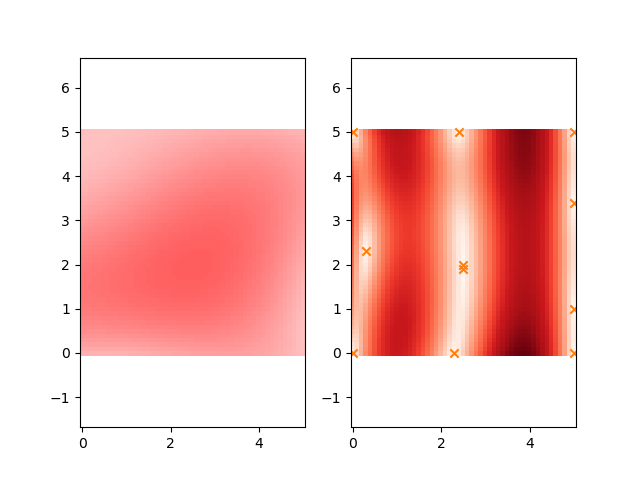
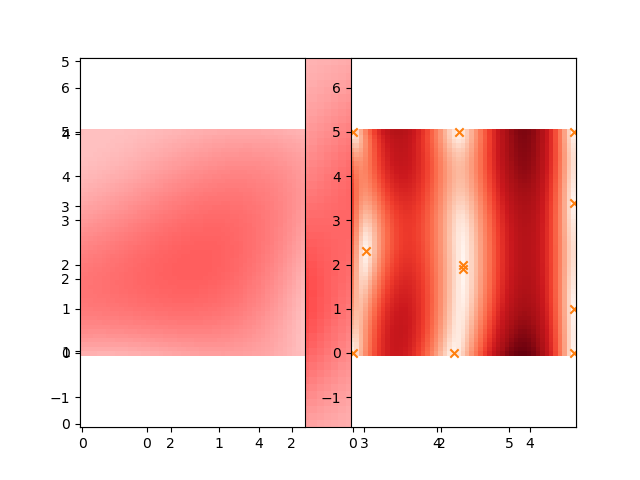
before further modifying hyper params in run_rits.py

diff --git a/run_rits.py b/run_rits.py
@@ -24,28 +24,28 @@ def get_params(rpkl=None, wpkl=None):
         param_sets['param_name'] = ["lattice constance"]
         param_sets['string'] = ['LATCON']
         param_sets['lims_mean'] = [[2.86, 2.87]]
-        param_sets['lims_scale'] = [[0.0, 0.00001]]
-        param_sets['lims_xlim'] = [[25., 50.]]
+        param_sets['lims_scale'] = [[0.0, 0.00005]]
+        param_sets['lims_xlim'] = [[25., 45.]]
         param_sets['param_name'].append("crsytallite size")
         param_sets['string'].append("CRSIZE")
-        param_sets['lims_mean'].append([1.0, 1.3])
-        param_sets['lims_scale'].append([0.3, 1.0])
-        param_sets['lims_xlim'].append([30., 40.])
+        param_sets['lims_mean'].append([0.186038, 1.31959])
+        param_sets['lims_scale'].append([0.0, 0.01])
+        param_sets['lims_xlim'].append([30., 50.])
         param_sets['param_name'].append("microstrain in Jorgensen func")
         param_sets['string'].append("MICRST")
-        param_sets['lims_mean'].append([1.3, 1.5])
-        param_sets['lims_scale'].append([0.1, 1.0])
-        param_sets['lims_xlim'].append([40., 50.])
+        param_sets['lims_mean'].append([1.0, 15.7124])
+        param_sets['lims_scale'].append([0.1, 2.0])
+        param_sets['lims_xlim'].append([30., 50.])
         param_sets['param_name'].append("March-Dollase Coefficient")
         param_sets['string'].append("MDCOEF")
-        param_sets['lims_mean'].append([2.3, 2.7])
+        param_sets['lims_mean'].append([1.33567, 2.53587])
         param_sets['lims_scale'].append([0.01, 1.0])
-        param_sets['lims_xlim'].append([15., 40.])
+        param_sets['lims_xlim'].append([30., 50.])
         param_sets['param_name'].append("Projected Atomic Number Density")
         param_sets['string'].append("PRODEN")
-        param_sets['lims_mean'].append([2.5, 3.6])
-        param_sets['lims_scale'].append([1.5, 2.6])
-        param_sets['lims_xlim'].append([4., 20.])
+        param_sets['lims_mean'].append([1.33478, 3.96254])
+        param_sets['lims_scale'].append([0.05, 2.0])
+        param_sets['lims_xlim'].append([10., 14.])
         if wpkl:
             with open(wpkl, 'wb') as f:
                 pickle.dump(param_sets, f, 4)
@@ -151,7 +151,8 @@ def cycles_mpi(ns=10, dim=2, pklfile='param_sets_sets_bccrev2_2d.pkl'):
         ss = sg.spawn(psize)
         rg = Generator(PCG64(ss[rank]))
     _param_sets_sets = []
-    param_sets = get_params(rpkl='param_sets_bccrev2.pkl')
+    param_sets = get_params(wpkl='param_sets_bccrev22.pkl')
+    param_sets = get_params()
     for ins in range(rank*(ns//psize), (rank+1)*(ns//psize)):
         print('rank=', rank, 'ins=', ins)
         _param_sets_sets.append(draw_params_mpi(rg, param_sets, dim=dim))
@@ -725,11 +726,11 @@ def check_data():
 
 #gather_bi2d(timescale=50)
 #cycles(ns=2, dim=2)
-#cycles_mpi(ns=2560, dim=2, pklfile='param_sets_sets_bccrev2_2d_single_edge_rsize.pkl')
+#cycles_mpi(ns=1000, dim=2, pklfile='param_sets_sets_bccrev22_2d_single_edge_rsize.pkl')
 #divide_paramdata()
 #mpi_parallel_computation(pklfile='param_sets_sets_2dlarge.pkl')
-#single_computation(pklfile='param_sets_sets_bccrev2_2d_single_edge_rsize.pkl')
-single_edgecomputation()
+single_computation(pklfile='param_sets_sets_bccrev22_2d_single_edge_rsize.pkl')
+#single_edgecomputation()
 #gather_bi2d(timescale=1, nidx=300)
 #gather_bi2d_mpi(timescale=1, nidx=300)
 #gather_bi2d_only_cond(timescale=1, nidx=300)

diff --git a/gp_nrca.py b/gp_nrca.py
@@ -29,7 +29,7 @@ class GaussianProcessRegression:
         self.noise_mat = self.noiselevel*np.eye(self.x_train.shape[0])
         self.K_I = self.K + self.noise_mat
         self.L = np.linalg.cholesky(self.K_I)
-        print("calclulating f_bar")
+        print("calculating f_bar")
         self.f_bar = self.K_astarisc @\
             np.linalg.lstsq(self.L.T, np.linalg.lstsq(self.L, self.y_train,
                                                       rcond=None)[0],
@@ -38,7 +38,7 @@ class GaussianProcessRegression:
         self.K_double_astarisc = self.kernel(self.x, self.x)
         print("calculating V")
         self.V = np.linalg.lstsq(self.L, self.K_astarisc.T, rcond=None)[0]
-        print("caluclating cov")
+        print("calculating cov")
         self.conv = self.K_double_astarisc - self.V.T @ self.V
         print("calculating std")
         self.std = np.diag(self.conv)**0.5
@@ -76,6 +76,7 @@ class GaussianProcessRegression:
         test_x2 = np.repeat(np.expand_dims(x2, 2), x1.shape[0],
                             axis=2).transpose(2, 1, 0)
         K = np.exp(-0.5*np.sum(((test_x1 - test_x2)/5.)**2, axis=1))
+        #K = np.exp(-0.5*np.sum(((test_x1 - test_x2)/15)**2, axis=1))
         return(K)
 
     def savedata(self, base=None):

diff --git a/gp_nrca_using_class.py b/gp_nrca_using_class.py
@@ -15,7 +15,7 @@ import matplotlib.pyplot as plt
 import sys
 home = os.path.expanduser("~")
 sys.path.append(home+"/ktpro")
-from gp_nrca import GaussanProcessRegression as gpr
+from gp_nrca import GaussianProcessRegression as gpr
 
 
 def searchrun2dnrca():
@@ -50,6 +50,7 @@ def searchrun2dnrca():
 
     for itry in range(0, 101):
         prj = gpr(x, x_train, y_train, noiselevel)
+        prj.new()
         if itry % 10 == 0:
             print('itry:', itry)
             plt.subplot(1, 2, 1)